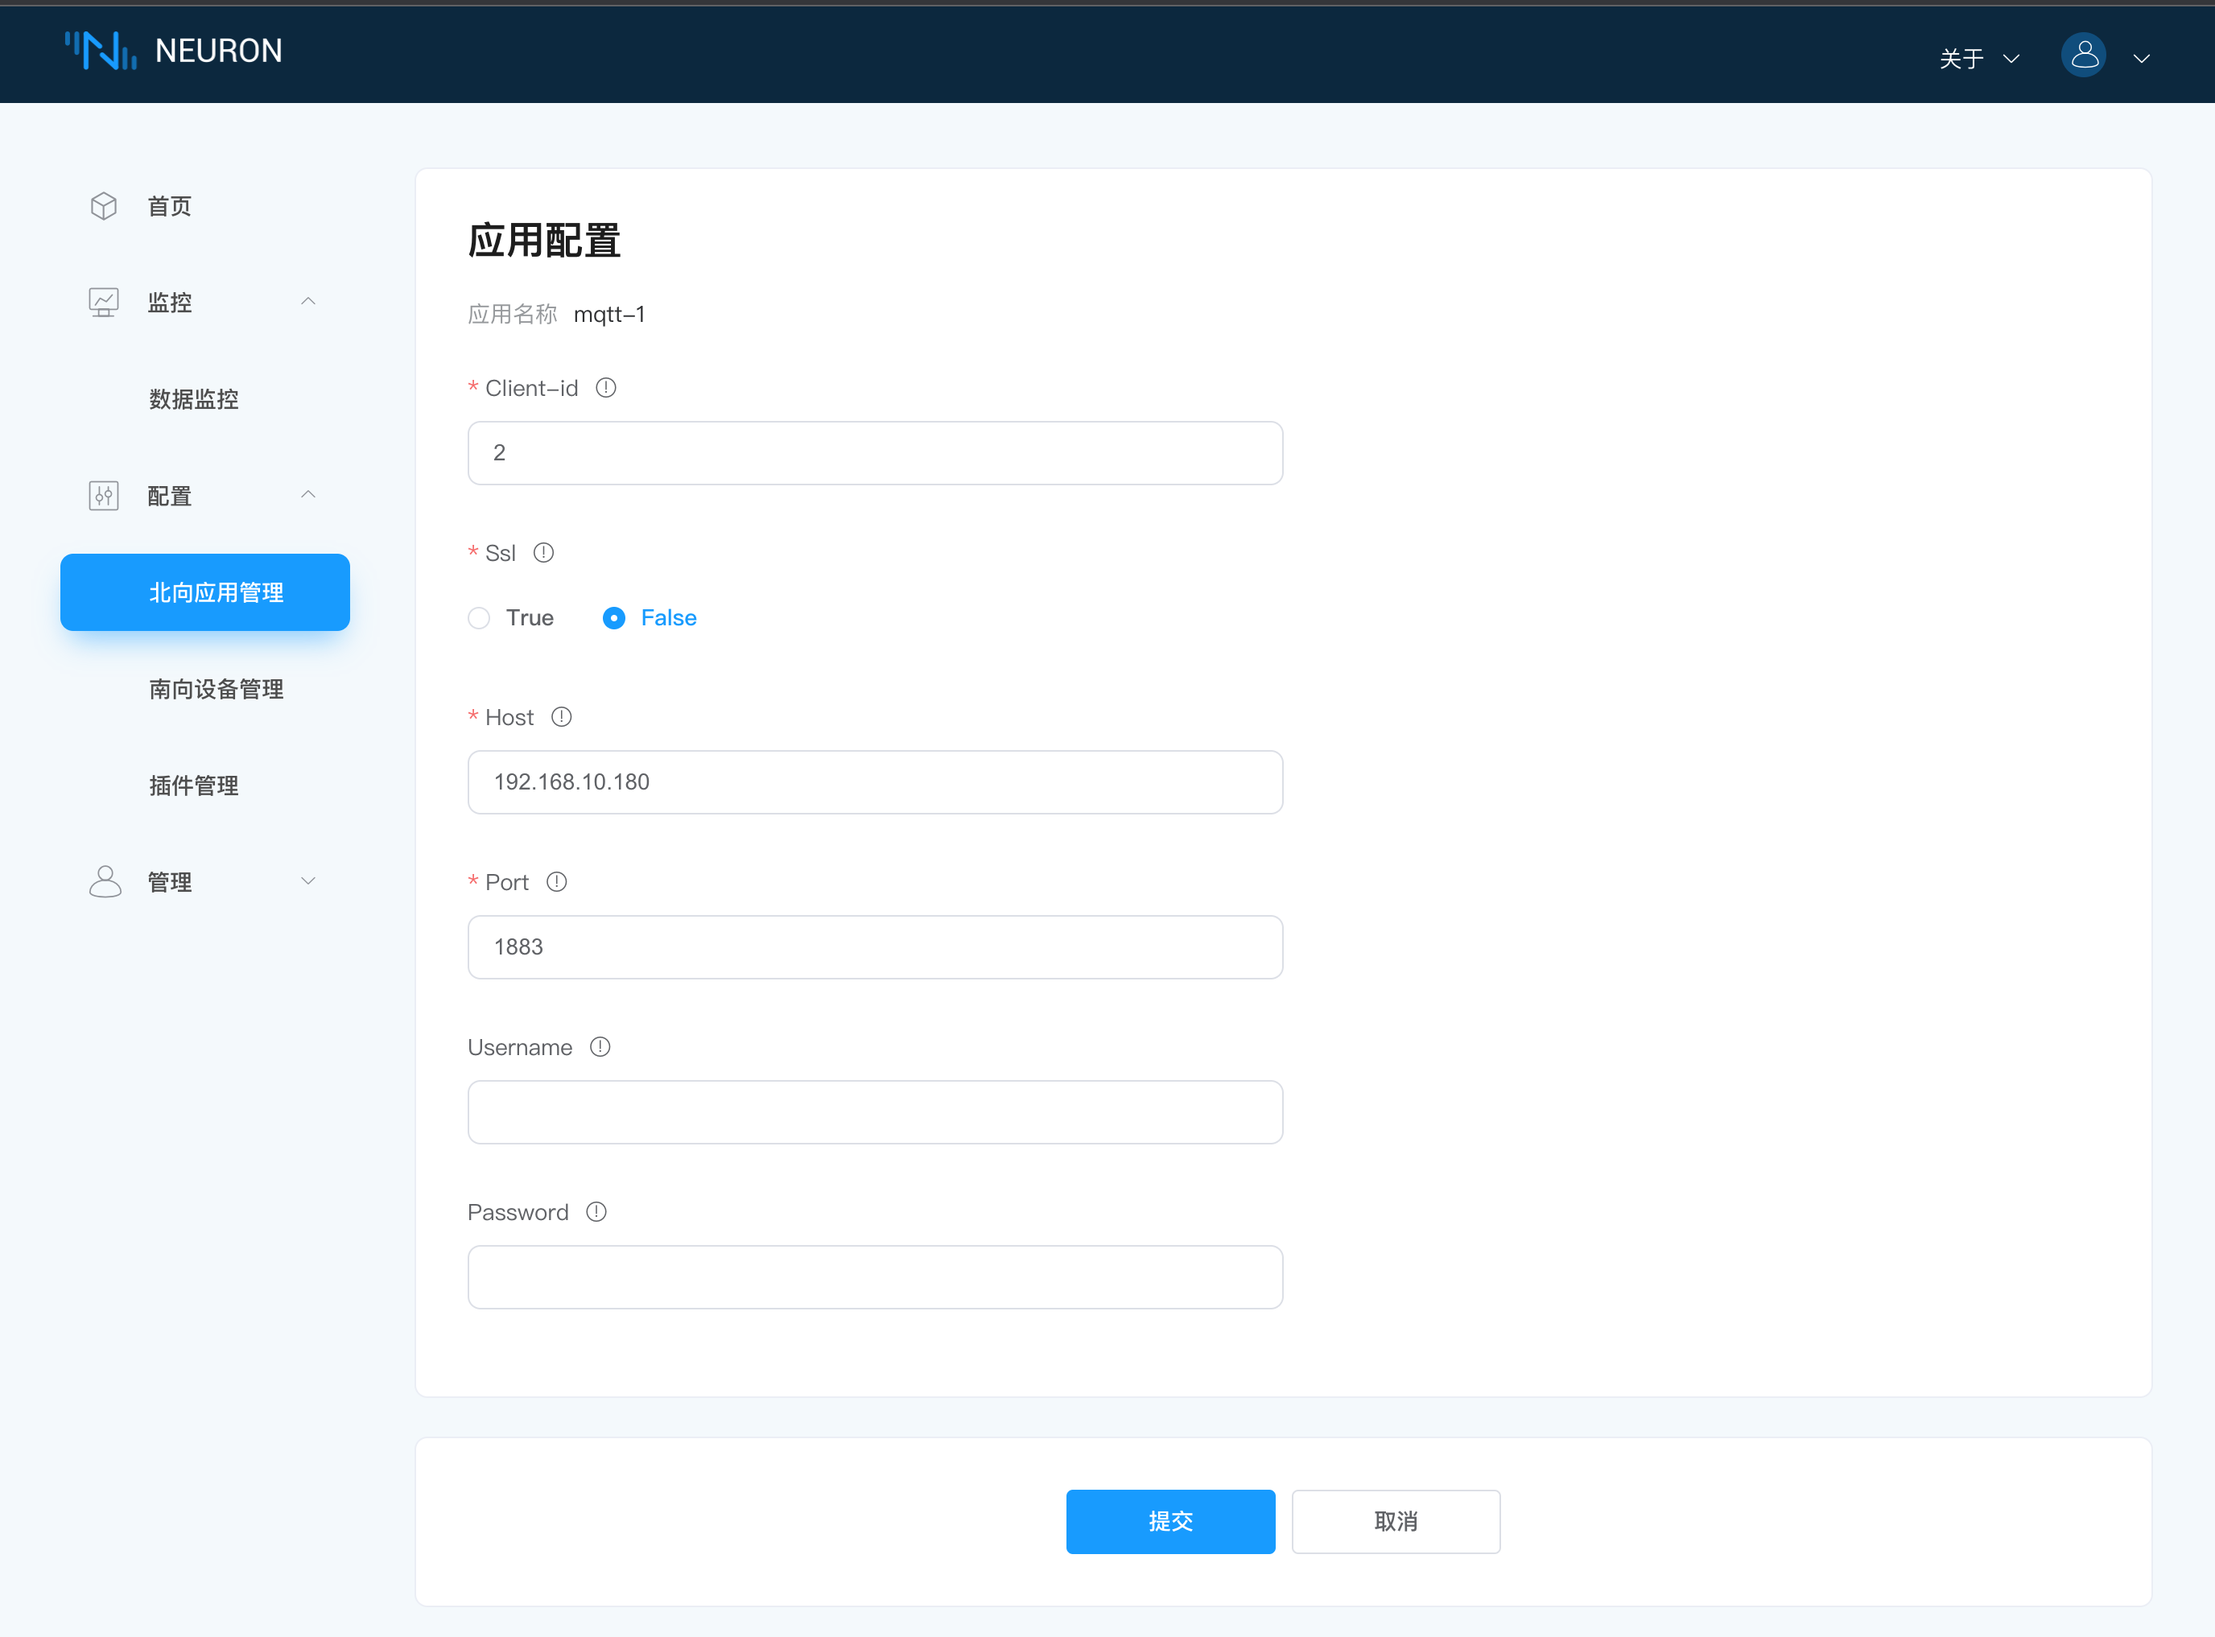
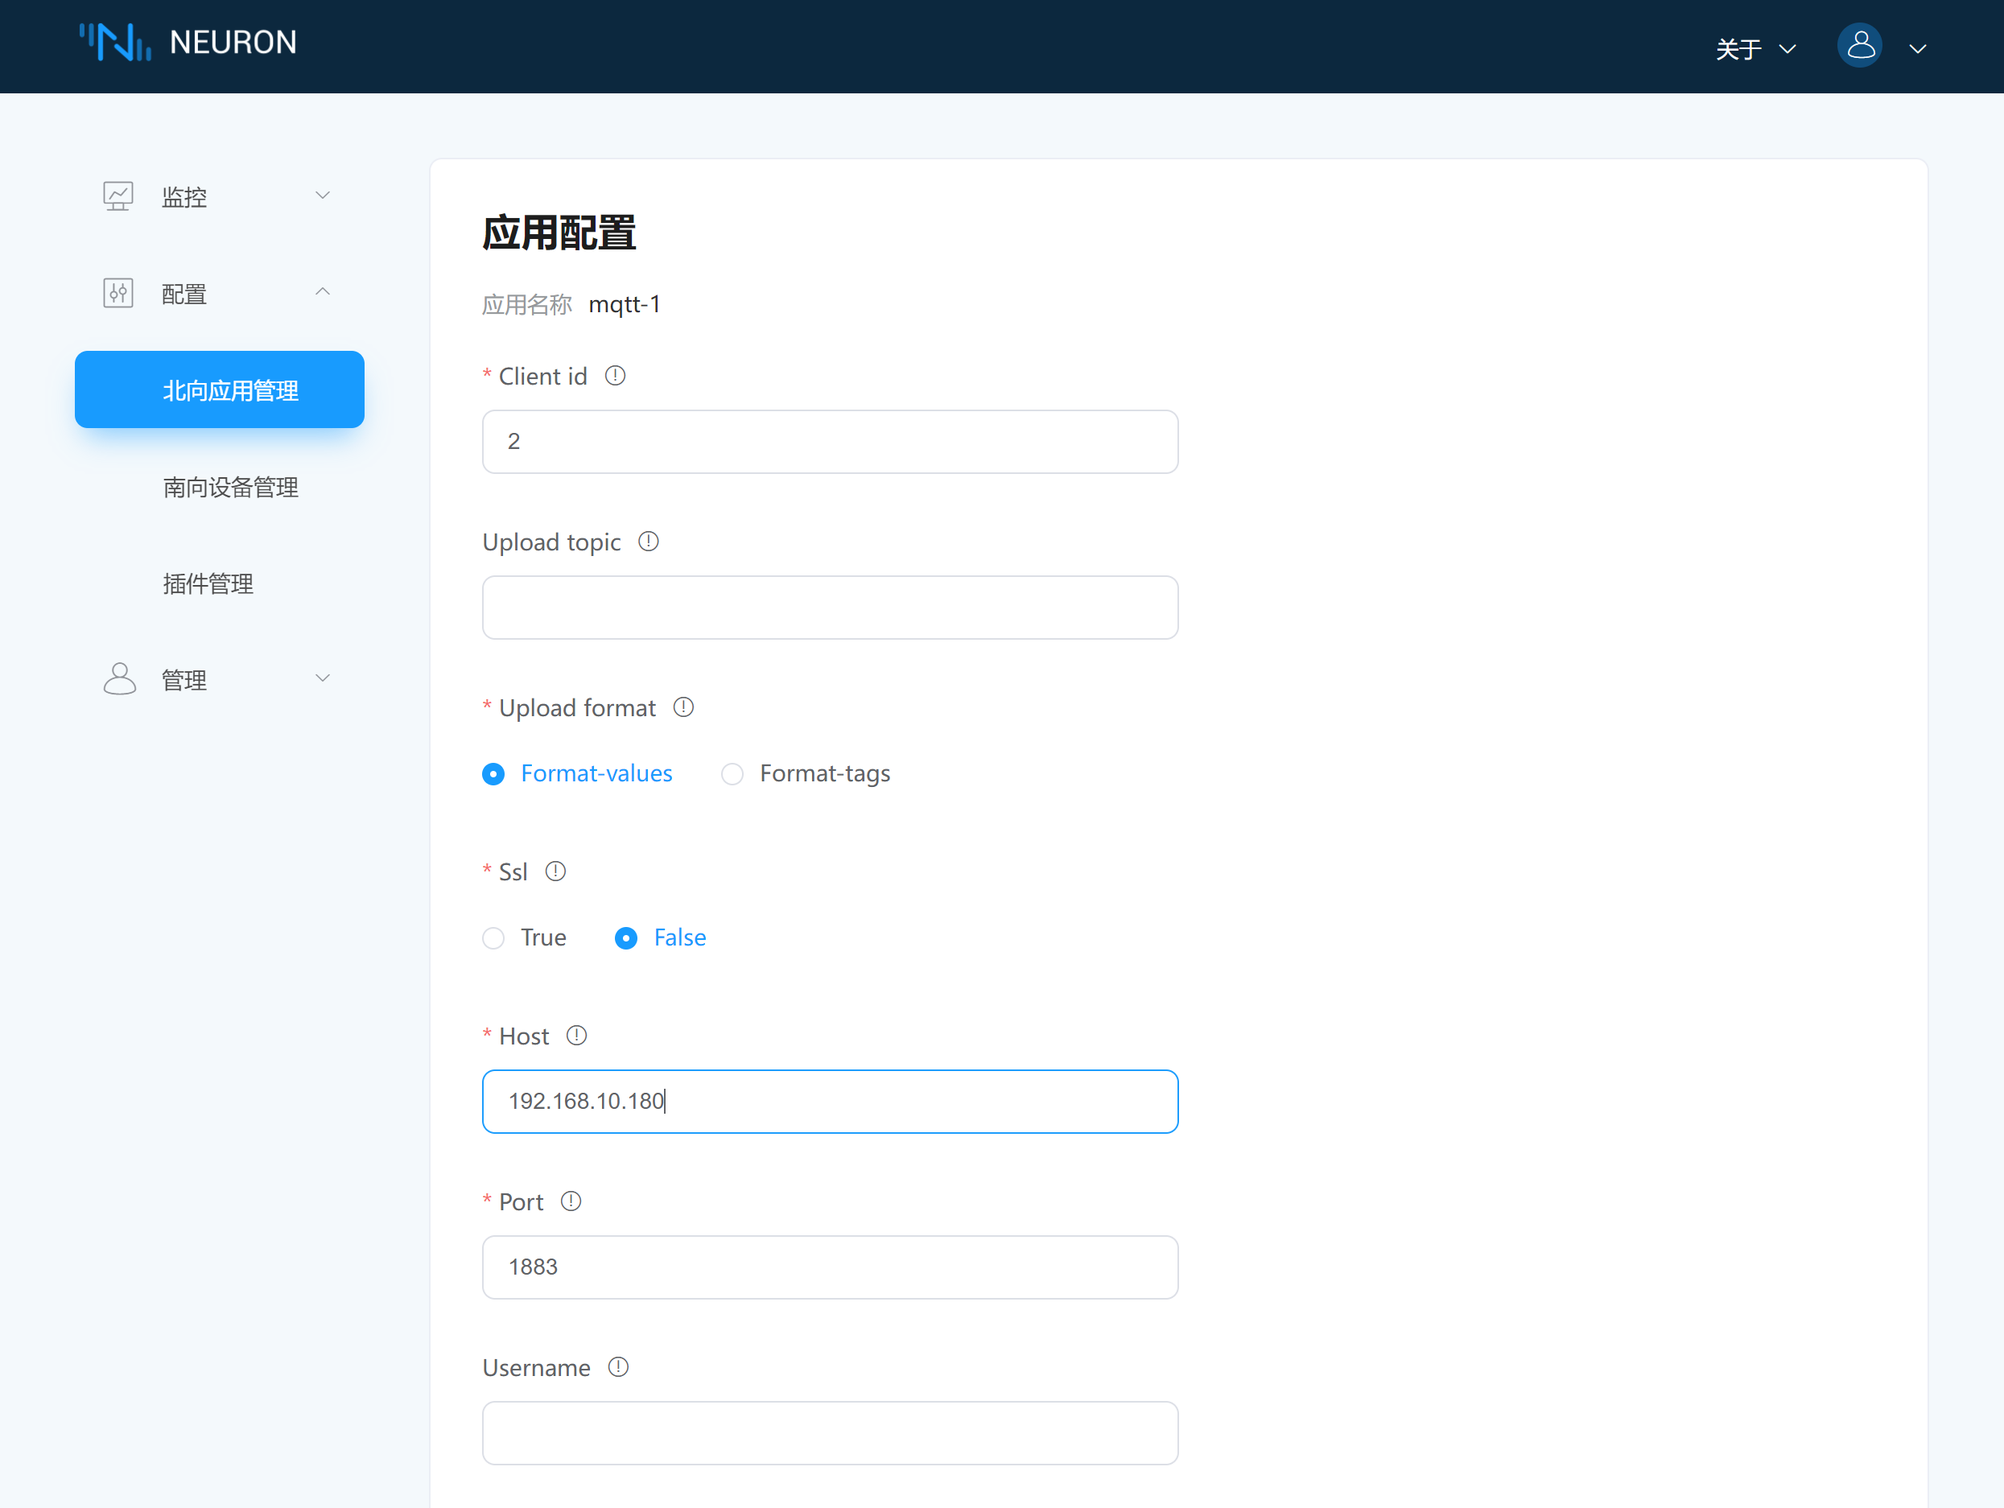
refactor(mqtt): user defined topic

diff --git a/zh_CN/neuron-mqtt-topics.md b/zh_CN/neuron-mqtt-topics.md
@@ -48,7 +48,9 @@ The **client-id** in all topics refers to the actual MQTT client id, which is se
 
 ### Response
 
-*Topic* **neuron/{client-id}/upload**
+*Topic* **neuron/{client-id}/upload** 
+
+If the upload-topic is set in the node setting, the topic will be used to upload data, and the default topic will no longer upload data.
 
 #### Body (Tags format)
 

diff --git a/en_US/neuron-mqtt-topics.md b/en_US/neuron-mqtt-topics.md
@@ -50,6 +50,8 @@ The **client-id** in all topics refers to the actual MQTT client id, which is se
 
 *Topic* **neuron/{client-id}/upload**
 
+If the upload-topic is set in the node setting, the topic will be used to upload data, and the default topic will no longer upload data.
+
 #### Body (Tags format)
 
 ```json
